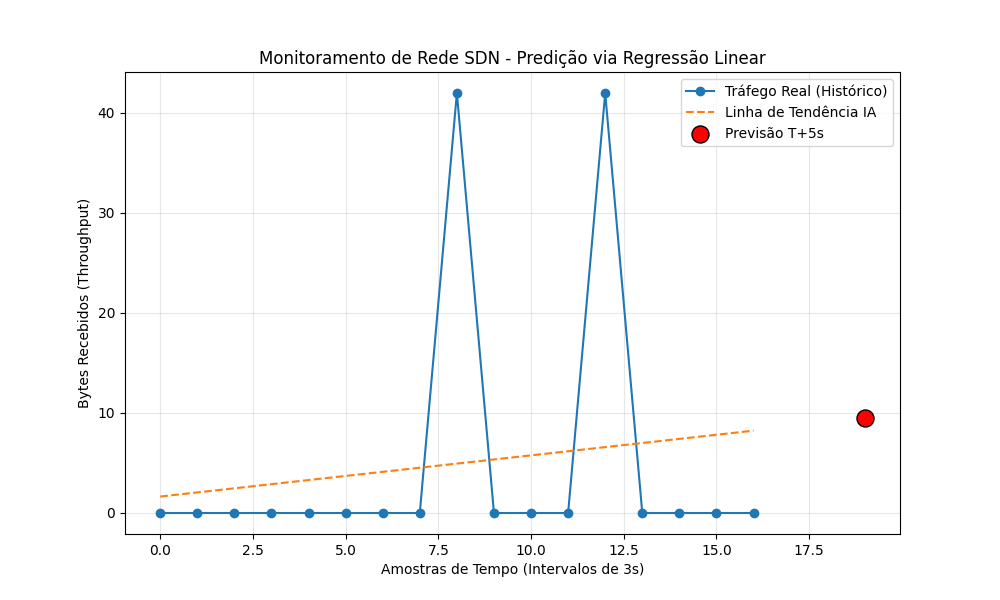
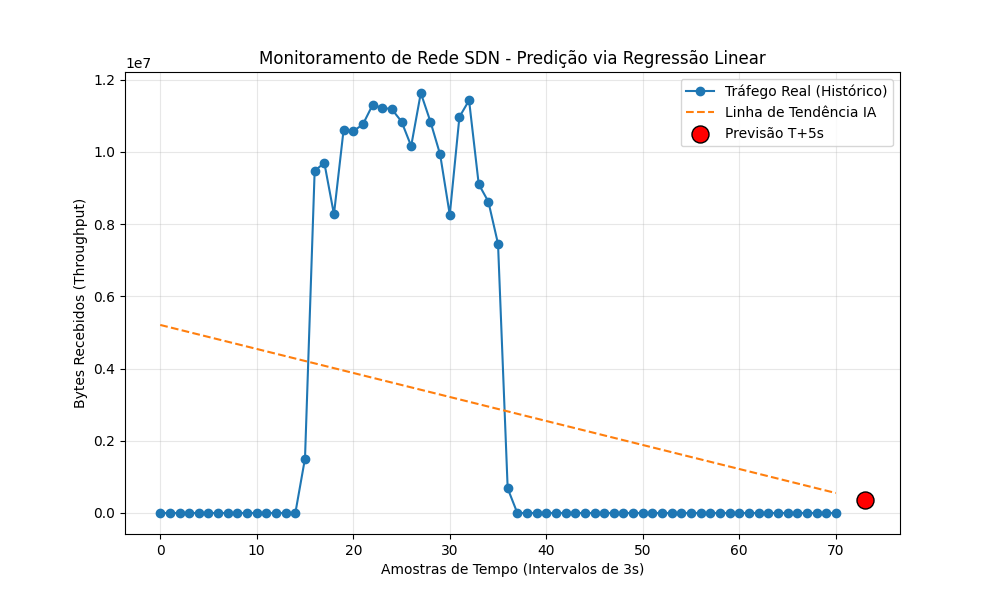
Primeira versão: Ambiente experimental, coleta de métricas e IA preditiva

diff --git a/treinar_ia.py b/treinar_ia.py
@@ -1,85 +1,70 @@
 import pandas as pd
-import matplotlib.pyplot as plt
 from sklearn.linear_model import LinearRegression
-import numpy as np
-import sys
+import matplotlib.pyplot as plt
+import os
 
-# 1. Configurações iniciais
-ARQUIVO_CSV = 'dataset_smartcity.csv'
-COLUNAS = ['timestamp', 'switch_id', 'porta', 'tx_bytes', 'rx_bytes', 'tx_pacotes', 'rx_pacotes']
-
-# 2. Carregar os dados
 try:
-    # Lemos o CSV forçando os nomes das colunas e tratando possíveis problemas de formatação
-    df = pd.read_csv(ARQUIVO_CSV, names=COLUNAS, header=None, skiprows=1)
+    # 1. Carregar os dados
+    df = pd.read_csv('dataset_smartcity.csv', names=['Tempo', 'Bytes'])
     
-    # Limpeza de espaços nos nomes (por segurança)
-    df.columns = df.columns.str.strip()
+    # --- BLINDAGEM CONTRA TEXTOS (Correção do erro 'tx_pacotes') ---
+    df['Tempo'] = pd.to_numeric(df['Tempo'], errors='coerce')
+    df['Bytes'] = pd.to_numeric(df['Bytes'], errors='coerce')
+    df = df.dropna() # Remove qualquer linha que não seja número puro
+    # ---------------------------------------------------------------
     
-    if df.empty:
-        print("Erro: O arquivo CSV está vazio. Gere tráfego no Mininet primeiro!")
-        sys.exit()
+    print(f"\n*** Dataset carregado! Analisando {len(df)} linhas válidas de dados.")
+
+    # Verifica se há dados suficientes para treinar a IA
+    if len(df) < 2:
+        print("⚠ Dados insuficientes no CSV. Deixe o Ryu rodando por mais alguns segundos e tente novamente.")
+        exit()
+
+    # 2. Preparar os dados para a Regressão Linear
+    X = df[['Tempo']].values
+    y = df['Bytes'].values
+
+    # 3. Treinar o modelo
+    modelo = LinearRegression()
+    modelo.fit(X, y)
+
+    # 4. Fazer a Previsão (Tt + 5s)
+    ultimo_tempo = df['Tempo'].max()
+    ultima_carga = df['Bytes'].iloc[-1]
+    tempo_futuro = [[ultimo_tempo + 5]]
+    previsao = modelo.predict(tempo_futuro)[0]
+
+    print("\n--- RELATÓRIO PREDITIVO - SMART CITY ---")
+    print(f"Última carga registrada: {ultima_carga:.2f} bytes")
+    print(f"Previsão da IA para T+5s: {previsao:.2f} bytes")
+
+    # 5. Lógica de Alerta e Ação Mitigadora (A LINHA LARANJA DO DIAGRAMA)
+    # Se a previsão apontar um aumento crítico (ex: 20% maior que o atual)
+    if previsao > (ultima_carga * 1.20):
+        print("\n⚠ ALERTA: Tendência de Congestionamento Detectada!")
+        print("🛡  AÇÃO DA IA: Enviando regra OpenFlow para DESCARTAR tráfego do Usuário (H2)...")
         
-    print(f"*** Dataset carregado! Analisando {len(df)} linhas de dados.")
+        # Comando que bloqueia o IP do H2 (10.0.0.2) no switch S1
+        comando_openflow = "sudo ovs-ofctl add-flow s1 priority=100,ip,nw_src=10.0.0.2,actions=drop"
+        os.system(comando_openflow)
+        print("✅ Regra aplicada no Switch S1 com sucesso!")
+    else:
+        print("\n✅ Tráfego estável. Nenhuma ação necessária.")
 
+    # 6. Gerar o Gráfico
+    plt.figure(figsize=(10, 5))
+    plt.scatter(X, y, color='blue', label='Tráfego Real')
+    plt.plot(X, modelo.predict(X), color='orange', label='Tendência (IA)')
+    plt.scatter(tempo_futuro, previsao, color='red', marker='X', s=100, label='Previsão (T+5s)')
+    plt.title('Monitoramento e Predição de Congestionamento')
+    plt.xlabel('Tempo (s)')
+    plt.ylabel('Volume de Dados (Bytes)')
+    plt.legend()
+    plt.grid(True)
+    plt.savefig('grafico_ia.png')
+    print("\n*** Sucesso: O gráfico 'grafico_ia.png' foi gerado e salvo na pasta!")
+
+except FileNotFoundError:
+    print("❌ Erro: O arquivo 'dataset_smartcity.csv' não foi encontrado.")
 except Exception as e:
-    print(f"Erro ao carregar o arquivo: {e}")
-    sys.exit()
-
-# 3. Filtrar os dados do Servidor (Porta 3)
-# No Mininet, o servidor ficou na porta 3 do switch central
-df_servidor = df[df['porta'] == 3].copy()
-
-if len(df_servidor) < 2:
-    print("Erro: Dados insuficientes para a Porta 3. Rode o iperf no Mininet por mais tempo.")
-    sys.exit()
-
-# 4. Calcular o Throughput (Variação de bytes recebidos)
-# Como o Ryu salva o acumulado, o diff() nos dá o tráfego real do intervalo
-df_servidor['throughput'] = df_servidor['rx_bytes'].diff().fillna(0)
-
-# 5. Preparar a Inteligência Artificial (Regressão Linear)
-# X = Eixo do Tempo (0, 1, 2...)
-# y = Volume de dados (Throughput)
-X = np.arange(len(df_servidor)).reshape(-1, 1)
-y = df_servidor['throughput'].values
-
-# Criar e treinar o modelo com o Scikit-Learn
-modelo = LinearRegression()
-modelo.fit(X, y)
-
-# 6. Predição para T+5 segundos
-# O próximo ponto no tempo (amostra atual + 2 ciclos de 3s)
-ponto_futuro = np.array([[len(X) + 2]])
-predicao = modelo.predict(ponto_futuro)
-
-# Garantir que a predição não seja negativa (matematicamente possível, fisicamente não)
-predicao_final = max(0, predicao[0])
-
-print("-" * 45)
-print(f"RELATÓRIO PREDITIVO - SMART CITY")
-print(f"Última carga registrada: {y[-1]:.2f} bytes")
-print(f"Previsão da IA para T+5s: {predicao_final:.2f} bytes")
-
-# Lógica de Alerta
-if predicao_final > y[-1] * 1.3:
-    print("ALERTA: Tendência de Congestionamento Detectada! ⚠")
-else:
-    print("STATUS: Rede Estável. ✅")
-print("-" * 45)
-
-# 7. Gerar Gráfico de Visualização
-plt.figure(figsize=(10, 6))
-plt.plot(X, y, color='#1f77b4', marker='o', label='Tráfego Real (Histórico)')
-plt.plot(X, modelo.predict(X), color='#ff7f0e', linestyle='--', label='Linha de Tendência IA')
-plt.scatter(ponto_futuro, predicao_final, color='red', s=150, edgecolors='black', label='Previsão T+5s', zorder=5)
-
-plt.title('Monitoramento de Rede SDN - Predição via Regressão Linear')
-plt.xlabel('Amostras de Tempo (Intervalos de 3s)')
-plt.ylabel('Bytes Recebidos (Throughput)')
-plt.legend()
-plt.grid(True, alpha=0.3)
-
-# Salvar o gráfico
-plt.savefig('grafico_ia.png')
-print("\n*** Sucesso: O gráfico 'grafico_ia.png' foi gerado!")
+    print(f"❌ Ocorreu um erro inesperado: {e}")
